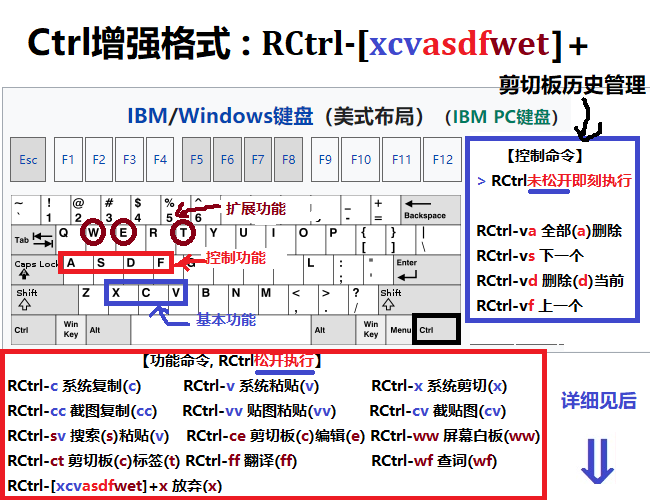
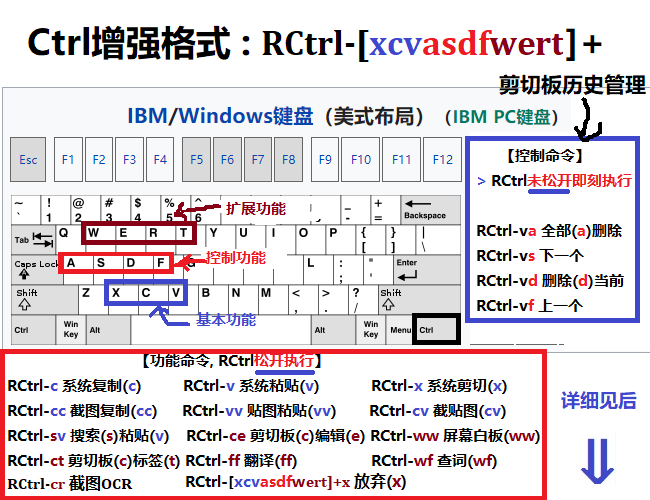
将两个类似的功能合并 ；  由于新增一个命令RCtrl-cr(截图OCR)而修改文档。

Changed region(s): [[0.0, 0.93, 0.6462, 0.99], [0.1231, 0.42, 0.3077, 0.51], [0.8308, 0.06, 0.9231, 0.12]]

diff --git a/docs/CtrlRich.md b/docs/CtrlRich.md
@@ -51,17 +51,17 @@ browser=Google Chrome|Chrome.exe
 
 一般情况（没有用此脚本的情况）， `Ctrl-[任意单个字母]`， Ctrl按下、然后字母按下（哪怕都没松开）就会立刻触发。
 
-我现在希望增强RCtrl功能（用此脚本的情况），目前已增强的操形如: `RCtrl-[cvxsdafewt]+`, **RCtrl按下后必须松开才触发，每个字母必须是一次完整的点击(按下-松开)**。 如果RCtrl按下未松开的状态下，按下的字母键未松开，会等待该字母键松开，确保是一次完整点击。
+我现在希望增强RCtrl功能（用此脚本的情况），目前已增强的操形如: `RCtrl-[cvxsdafewrt]+`, **RCtrl按下后必须松开才触发，每个字母必须是一次完整的点击(按下-松开)**。 如果RCtrl按下未松开的状态下，按下的字母键未松开，会等待该字母键松开，确保是一次完整点击。
 
-`[cvxsdafewt]+`的含义是使用正则表达式描述的，意思是：`[cvxsdafewt]`代表一个特定字母(`cvxsdafewt`之一), 而`+`代表至少一个字母点击。
+`[cvxsdafewrt]+`的含义是使用正则表达式描述的，意思是：`[cvxsdafewrt]`代表一个特定字母(`cvxsdafewrt`之一), 而`+`代表至少一个字母点击。
 
-这说明，只有`RCtrl-[cvxsdafewt]+`相关的Ctrl功能被增强，除此之外没有任何影响或改变。
+这说明，只有`RCtrl-[cvxsdafewrt]+`相关的Ctrl功能被增强，除此之外没有任何影响或改变。
 
-之所以增强RCtrl功能，是因为我和大部分人都是“右撇子”；同样道理，这些特殊字字母`cvxsdafewt`选用是因为它们都在键盘左边（如前图）。 “一左一右”符合快捷操作的习惯。
+之所以增强RCtrl功能，是因为我和大部分人都是“右撇子”；同样道理，这些特殊字字母`cvxsdafewrt`选用是因为它们都在键盘左边（如前图）。 “一左一右”符合快捷操作的习惯。
 
-如果是`RCtrl+[单字符]` = `RCtrl-[cvxsdafewt]`, 本脚本保证RCtrl松开后不改变系统的默认操作结果（当然本脚本可能会有额外的记录或动作，但不影响系统结果）。
+如果是`RCtrl+[单字符]` = `RCtrl-[cvxsdafewrt]`, 本脚本保证RCtrl松开后不改变系统的默认操作结果（当然本脚本可能会有额外的记录或动作，但不影响系统结果）。
 
-`RCtrl`按下但尚未松开时， 可以反复输入字符`[cvxsdafewt]`，相关能触发特定动作的命令，我称之为【控制命令】。
+`RCtrl`按下但尚未松开时， 可以反复输入字符`[cvxsdafewrt]`，相关能触发特定动作的命令，我称之为【控制命令】。
 
 `RCtrl`按下然后松开后，才触发特定动作的命令，我称之为【功能命令】。
 
@@ -91,11 +91,13 @@ browser=Google Chrome|Chrome.exe
 
 - `RCtrl-wf`        查词(wf) 【需要谷歌浏览器和沙拉查词插件支持】
 
+- `RCtrl-cr`        截图OCR(cr) 【需要tesseract-ocr支持】
+
 然后是控制命令, RCtrl按下后松开前执行
 
 - `RCtrl-v[asdf]+` 或 `RCtrl-vv[asdf]+`  全部删除(a)，浏览下一条(s)，删除当前(d)，浏览上一条(f)
 
-- `RCtrl-[cvxsdafewt]+x`    标记放弃(x)
+- `RCtrl-[cvxsdafewrt]+x`    标记放弃(x)
 
 一旦RCtrl松开后
 
@@ -105,7 +107,7 @@ browser=Google Chrome|Chrome.exe
 
 - `RCtrl-v[asdf]+v` = `RCtrl-vv`  屏幕贴图 
 
-- `RCtrl-[cvxsdafewt]+x` = `RCtrl` 放弃
+- `RCtrl-[cvxsdafewrt]+x` = `RCtrl` 放弃
 
 ![](../images/Ctrl增强帮助.png)
 
@@ -259,6 +261,25 @@ browser=Google Chrome|Chrome.exe
 
 2021-12-25 我意外发现一个额外的功效: 如果你选择了一段文字A，然后`RCtrl-ff`翻译，同时本脚本会将这段文字A复制剪切板，这时您在弹出的翻译面板的翻译结果上的“复制图标”，那么当前真实剪切板的内容就是翻译之后的内容，但是作为剪切板历史的当前“剪切板”内容还是翻译前的文字A。这是我们可以对当前真实剪切板的内容进行编辑（`RCtrl-ce`），编辑后（`Ctrl-s`）会将当前真实剪切板的内容（包括修改后的内容）保存到剪切板历史的当前“剪切板”内容，然后在当前光标位置粘贴翻译的结果。 这一条操作下来“行云流水”:  选择文字(手工)-翻译(`RCtrl-ff`)-复制翻译结果（手工点击）-编辑翻译结果（`RCtrl-ce`）-保存并粘贴（`Ctrl-s`）。
 
+### 截图OCR
+
+> 需要tesseract-ocr支持
+
+**功能命令**： `RCtrl-cr`
+
+此功能的前置条件: 
+
+已经安装了[tesseract-ocr](https://github.com/UB-Mannheim/tesseract/wiki)
+
+强烈推荐用scoop安装:
+
+```powershell
+scoop install tesseract
+scoop install tesseract-languages
+```
+
+
+
 ## 控制命令
 
 > 控制命令, 是在`RCtrl`按下后松开前执行的命令。
@@ -287,7 +308,7 @@ browser=Google Chrome|Chrome.exe
 
 ### 放弃原定目标
 
-`RCtrl-[cvxsdafewt]+x`, 意味着放弃`RCtrl-[cvxsdafewt]`原本的动作，不做任何事放弃。
+`RCtrl-[cvxsdafewrt]+x`, 意味着放弃`RCtrl-[cvxsdafewrt]`原本的动作，不做任何事放弃。
 
 比如:  `RCtrl-vv[asdf]+` = `RCtrl-vv` 表示:执行完控制命令后贴图； 而 `RCtrl-vv[asdf]+x` = `RCtrl-vvx` 表示: 只执行完控制命令
 
